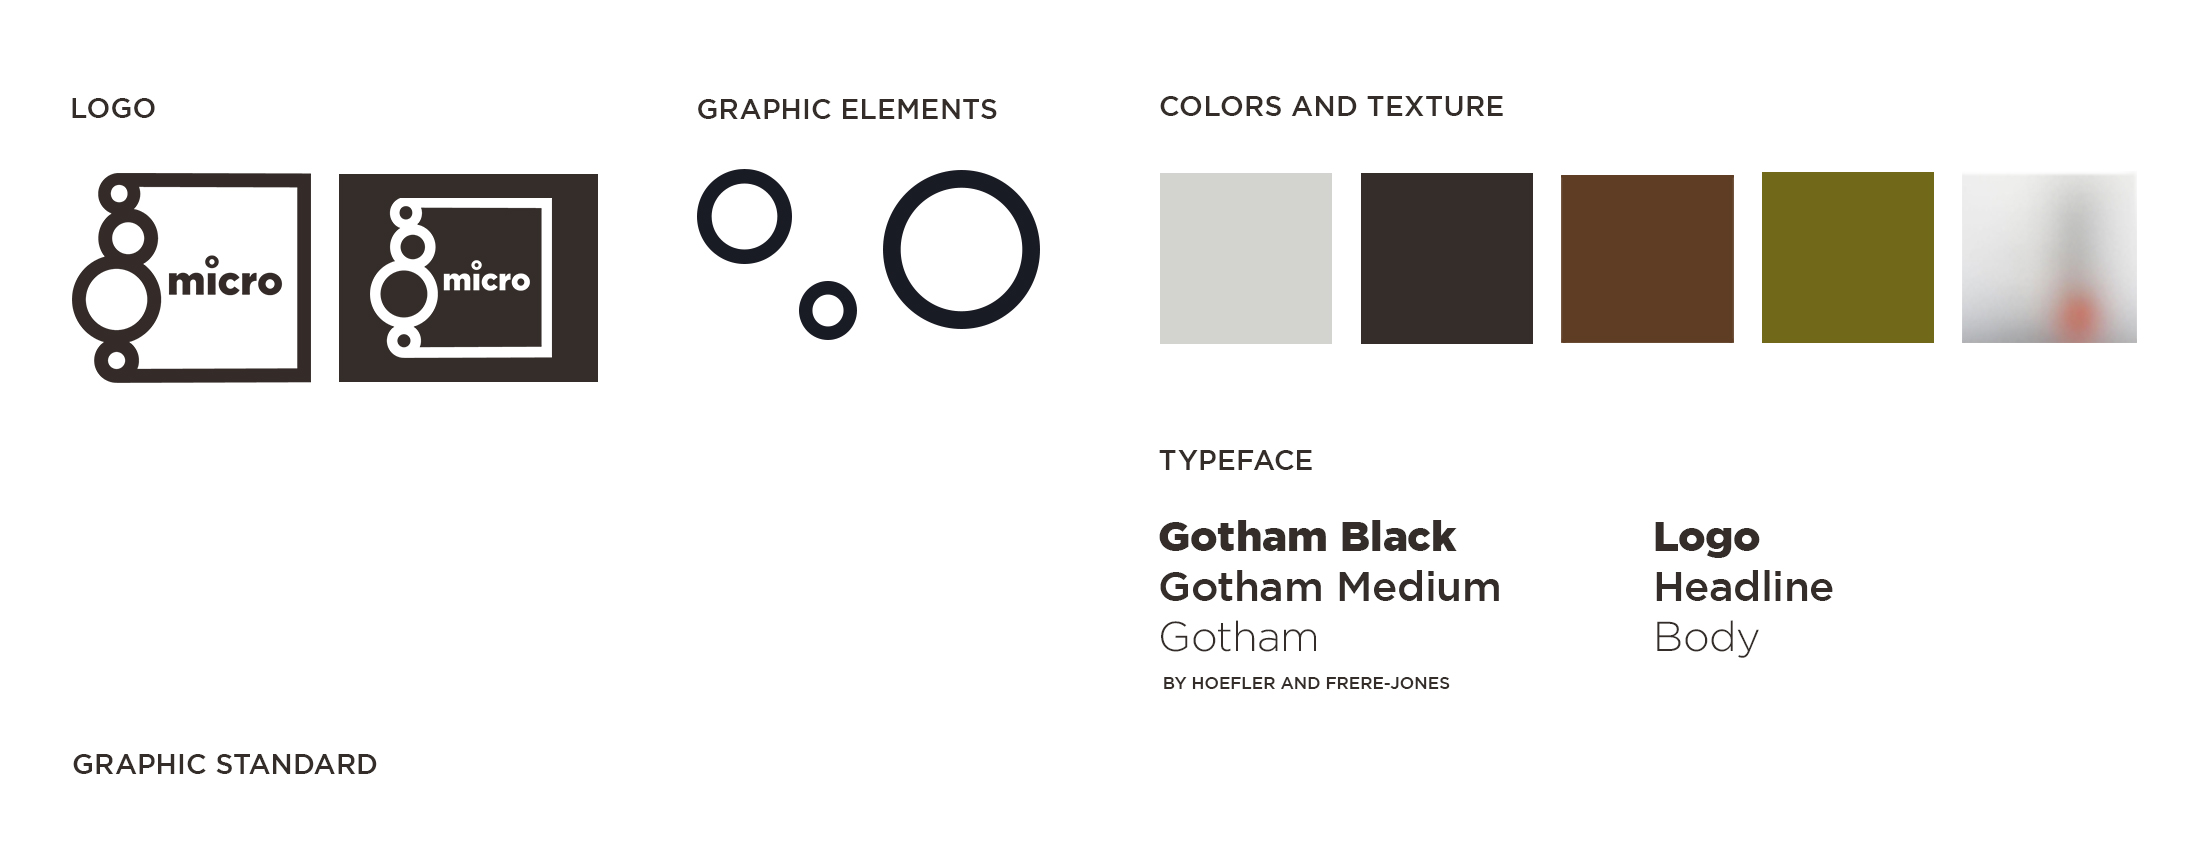
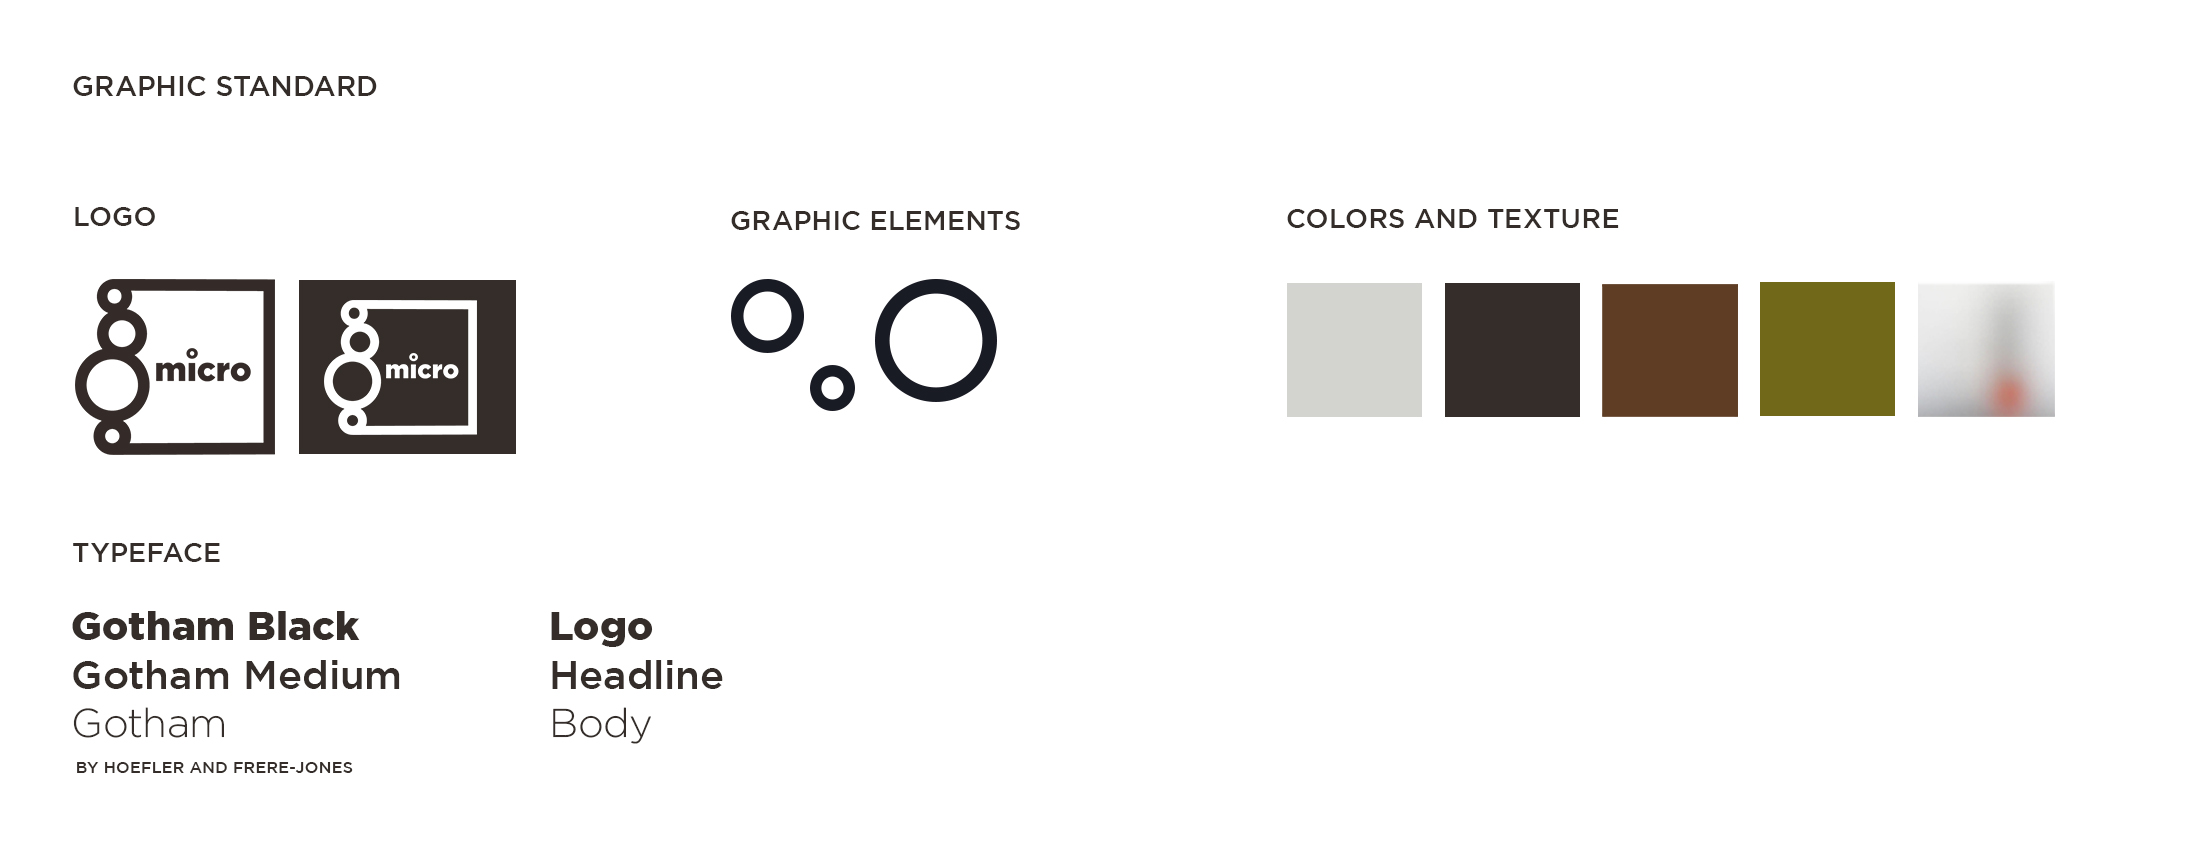
white space in graphic standard

diff --git a/poster.html b/poster.html
@@ -24,9 +24,9 @@
 		<div class="row">
 			<div class="col-sm-3"> 
 				<div class="mycontent-left">
-					<p>project: </br> self initiated poster for UC Davis </br></br>concept:</br> based on the lecture seires topic, form and content. typographic treatment used to express the idea of form. typographic style used to visualize the voice of the viewer.this poster is a form of it's content.*
+					<p>project: </br> self initiated poster for UC Davis </br></br>concept:</br> based on the lecture seires topic, form and content. typographic style and treatment used to express the idea of form and the voice of the viewer. 
 
-					<p class="astrick">*<a href="https://twitter.com/search?q=%23SoMeta&src=typd&lang=en&lang=en" target="_blank">#SoMeta</a></p>
+			
 					  </p>
 				
 	

diff --git a/micro.html b/micro.html
@@ -34,10 +34,11 @@
 			<div class="col-sm-9">
 				<div class="mycontent-right">
 					<img src="images/graphicstandard.jpg">
-					<img src="images/microlotion.jpg">
 					<img src="images/collaterallabel.jpg">
-					<img src="images/billboard.jpg">
+					<img src="images/microlotion.jpg">
 					<img src="images/implementationlabel.jpg">
+					<img src="images/billboard.jpg">
+					
 				</div>
 			</div>
 	</div>
